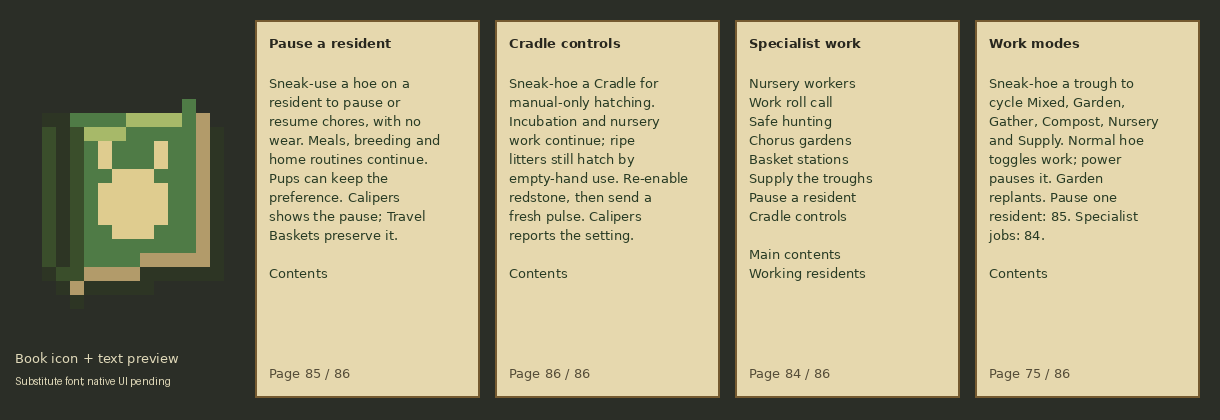
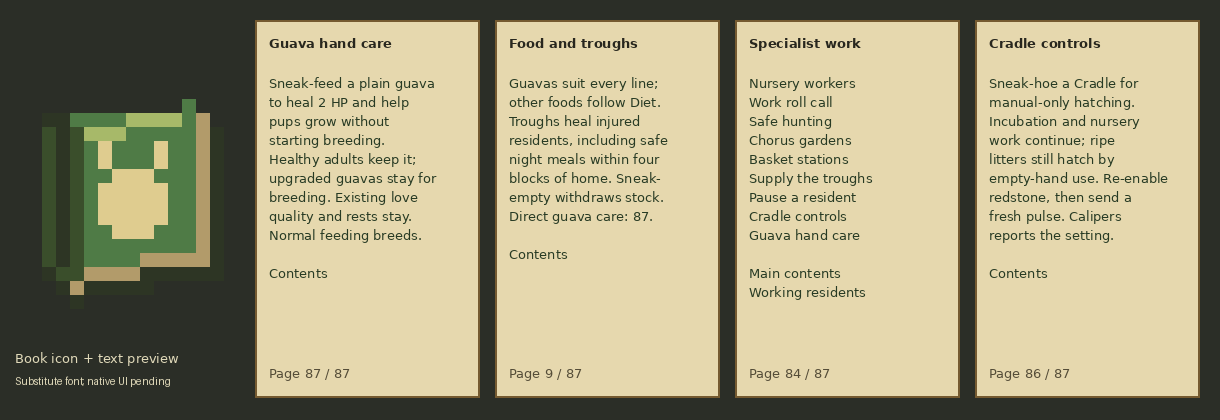
Add deliberate plain-guava care without starting breeding

diff --git a/tools/gametest/java/com/bunnidogs/mod/entity/HandCareGameTest.java b/tools/gametest/java/com/bunnidogs/mod/entity/HandCareGameTest.java
@@ -1,0 +1,71 @@
+package com.bunnidogs.mod.entity;
+
+import java.util.function.Consumer;
+import com.bunnidogs.mod.genetics.Foraging;
+import com.bunnidogs.mod.genetics.Genome;
+import com.bunnidogs.mod.genetics.Stats;
+import com.bunnidogs.mod.registry.ModEntities;
+import com.bunnidogs.mod.registry.ModItems;
+import net.minecraft.core.component.DataComponents;
+import net.minecraft.gametest.framework.GameTestHelper;
+import net.minecraft.nbt.CompoundTag;
+import net.minecraft.network.chat.Component;
+import net.minecraft.util.ProblemReporter;
+import net.minecraft.world.InteractionHand;
+import net.minecraft.world.entity.EntitySpawnReason;
+import net.minecraft.world.item.ItemStack;
+import net.minecraft.world.item.Items;
+import net.minecraft.world.level.GameType;
+import net.minecraft.world.level.storage.TagValueOutput;
+import net.minecraft.world.phys.Vec3;
+import net.neoforged.neoforge.common.NeoForge;
+import net.neoforged.neoforge.event.entity.living.LivingHealEvent;
+
+/** Actual hands distinguish guava care from love, including paused workers and callback refills. */
+public final class HandCareGameTest {
+    private HandCareGameTest() {}
+    private static CompoundTag saved(Bunnidog dog) {
+        var out = TagValueOutput.createWithContext(ProblemReporter.DISCARDING,dog.level().registryAccess()); dog.saveWithoutId(out); return out.buildResult();
+    }
+    public static void run(GameTestHelper h) {
+        var level = h.getLevel(); var dog = h.spawnWithNoFreeWill(ModEntities.BUNNIDOG.get(),3.5F,2,3.5F);
+        var stats = Stats.of(5,6,7,8,9); dog.setGenome(Genome.DEFAULT); dog.setStats(stats); dog.setAge(1234); dog.setHealth(dog.getMaxHealth()-4);
+        dog.setParents(Genome.DEFAULT,Genome.DEFAULT); dog.applyEarTag(); var identity = dog.getUUID(); var tag = dog.earTag();
+        var player = h.makeMockServerPlayerInLevel(); player.gameMode.changeGameModeForPlayer(GameType.SURVIVAL); player.setShiftKeyDown(true);
+        player.setItemInHand(InteractionHand.MAIN_HAND,new ItemStack(Items.IRON_HOE)); player.interactOn(dog,InteractionHand.MAIN_HAND,Vec3.ZERO); player.setItemInHand(InteractionHand.MAIN_HAND,ItemStack.EMPTY);
+        dog.ateForage(0); dog.finishedGardening(); int foodRest = dog.forageWait(), workRest = dog.gardeningWait();
+        var guavas = new ItemStack(ModItems.GUAVA.get(),3); guavas.set(DataComponents.CUSTOM_NAME,Component.literal("Care guavas")); player.setItemInHand(InteractionHand.OFF_HAND,guavas);
+        float health = dog.getHealth(); player.interactOn(dog,InteractionHand.OFF_HAND,Vec3.ZERO);
+        h.assertTrue(guavas.getCount() == 2 && guavas.getHoverName().getString().equals("Care guavas") && dog.getHealth() == health+Foraging.HEAL
+                && dog.getAge() == 1234 && !dog.isInLove() && dog.workPaused() && dog.forageWait() == foodRest && dog.gardeningWait() == workRest,
+                "Sneak off-hand care must pay one exact plain guava, heal two and retain pause/breeding cooldown/recoveries");
+        dog.setAge(0); player.interactOn(dog,InteractionHand.OFF_HAND,Vec3.ZERO);
+        h.assertTrue(guavas.getCount() == 1 && dog.getHealth() == dog.getMaxHealth() && !dog.isInLove() && !saved(dog).contains("LoveTierTicks"),"Even a breed-ready adult must receive care without love or a quality memory");
+        player.interactOn(dog,InteractionHand.OFF_HAND,Vec3.ZERO);
+        h.assertTrue(guavas.getCount() == 1 && !dog.isInLove(),"Healthy adults keep a medical guava without falling through to breeding");
+        var golden = new ItemStack(ModItems.GOLDEN_GUAVA.get(),2); golden.set(DataComponents.CUSTOM_NAME,Component.literal("Keep for breeding")); player.setItemInHand(InteractionHand.OFF_HAND,golden); dog.setHealth(dog.getMaxHealth()-4);
+        health = dog.getHealth(); player.interactOn(dog,InteractionHand.OFF_HAND,Vec3.ZERO);
+        h.assertTrue(golden.getCount() == 2 && dog.getHealth() == health && !dog.isInLove(),"Sneak care keeps upgraded guavas without healing or breeding");
+        dog.setAge(-1000); var pupFood = new ItemStack(ModItems.GUAVA.get(),2); player.setItemInHand(InteractionHand.OFF_HAND,pupFood); player.interactOn(dog,InteractionHand.OFF_HAND,Vec3.ZERO);
+        h.assertTrue(pupFood.getCount() == 1 && dog.getHealth() == health+Foraging.HEAL && dog.getAge() > -1000 && dog.isBaby() && !dog.isInLove(),"One plain medical guava heals and grows a pup through the existing hand-food rule");
+        dog.setAge(0); dog.setHealth(dog.getMaxHealth()-4); player.gameMode.changeGameModeForPlayer(GameType.CREATIVE); player.setItemInHand(InteractionHand.OFF_HAND,guavas);
+        health = dog.getHealth(); player.interactOn(dog,InteractionHand.OFF_HAND,Vec3.ZERO);
+        h.assertTrue(guavas.getCount() == 1 && player.getOffhandItem() == guavas && dog.getHealth() == health+Foraging.HEAL && !dog.isInLove(),"Creative off-hand care changes the real animal while preserving the actual guava");
+        player.setShiftKeyDown(false); player.setItemInHand(InteractionHand.OFF_HAND,golden); player.interactOn(dog,InteractionHand.OFF_HAND,Vec3.ZERO);
+        h.assertTrue(dog.isInLove() && saved(dog).getIntOr("LoveTier",-1) == 1,"Normal upgraded-guava feeding still starts breeding with its original tier");
+        int love = dog.getInLoveTime(), memory = saved(dog).getIntOr("LoveTierTicks",0); dog.setHealth(dog.getMaxHealth()-4); player.setShiftKeyDown(true); player.setItemInHand(InteractionHand.OFF_HAND,guavas);
+        player.interactOn(dog,InteractionHand.OFF_HAND,Vec3.ZERO);
+        h.assertTrue(dog.getInLoveTime() == love && saved(dog).getIntOr("LoveTier",-1) == 1 && saved(dog).getIntOr("LoveTierTicks",0) == memory,"Care preserves an already planned love tier and its exact remaining time");
+        player.gameMode.changeGameModeForPlayer(GameType.SURVIVAL); var last = new ItemStack(ModItems.GUAVA.get()); player.setItemInHand(InteractionHand.OFF_HAND,last); dog.setHealth(dog.getMaxHealth()-4);
+        boolean[] paidFirst = {false}; Consumer<LivingHealEvent> refill = event -> {
+            if (event.getEntity() == dog) { paidFirst[0] = last.isEmpty(); player.setItemInHand(InteractionHand.OFF_HAND,new ItemStack(Items.DIAMOND,3)); }
+        };
+        NeoForge.EVENT_BUS.addListener(refill);
+        try { player.interactOn(dog,InteractionHand.OFF_HAND,Vec3.ZERO); } finally { NeoForge.EVENT_BUS.unregister(refill); }
+        h.assertTrue(paidFirst[0] && last.isEmpty() && player.getOffhandItem().is(Items.DIAMOND) && player.getOffhandItem().getCount() == 3
+                && dog.genome().equals(Genome.DEFAULT) && dog.stats().equals(stats) && dog.getUUID().equals(identity) && dog.earTag().equals(tag)
+                && dog.forageWait() == foodRest && dog.gardeningWait() == workRest,"A native heal callback must see the paid food, retain replacement hand stock and leave biology/rests intact");
+        var apex = ModEntities.APEX.get().create(level,EntitySpawnReason.COMMAND); var refused = new ItemStack(ModItems.GUAVA.get()); player.setItemInHand(InteractionHand.OFF_HAND,refused); float bossHealth = apex.getHealth();
+        player.interactOn(apex,InteractionHand.OFF_HAND,Vec3.ZERO); h.assertTrue(refused.getCount() == 1 && apex.getHealth() == bossHealth && !apex.isInLove(),"The Apex still refuses all direct care food");
+    }
+}

diff --git a/art/gen_guide.py b/art/gen_guide.py
@@ -7,12 +7,12 @@ from gen_syringe import ROOT, RES, write
 PAGES = {
     2: ('Find a warren', 'Look for guava trees and entrance mounds. Follow lit tunnels to Nests. Settlements have one to five trees; cave, Nether and End lines have their own habitats. Maps: page 46. Scouts: page 47.'),
     3: ('Genes and stats', 'Each of seven genes has two copies. Dominance picks the visible trait; hidden copies still pass to pups. Bred stat points are separate. Use Calipers to read both.'),
-    4: ('Breed a seed', 'Feed a guava to each of two ready adults. They drop one seed holding both parents. Its tooltip shows the planned litter, quality and stat drift. The parents then rest.'),
+    4: ('Breed a seed', 'Feed a guava normally to each of two ready adults. They drop one seed holding both parents. Its tooltip shows the planned litter, quality and stat drift. The parents then rest.'),
     5: ('Hatch the litter', 'Plant a seed on farmland; dispensers plant into air above it. Bone meal speeds growth; hand or dispenser Starlit Dust ripens it. Break the ripe crop to hatch pups. Fortune improves quality. Leave room.'),
     6: ('Guava quality', 'Better guavas improve inherited stat gains. Feed both parents: their qualities are averaged. Golden: 1, Diamond: 2, Netherite: 4, Star: 7, Beacon: 12, Dragon Egg: 20.'),
     7: ('Keep a pedigree', 'Log animals with a Pedigree Book; Ear Tags label them. Sneak-use with a filled basket in the other hand to log its animal. Normal use opens records. Filter contents by traits/tags or senses>=20; hover the field for syntax.'),
     8: ('Nests and travel', 'Adults claim reachable Nests and return at night. Lead one to a free Nest and use it to rehome. Empty-hand Nest use inspects it. Use a compass on a Nest or resident to mark home; the place stays marked if removed.'),
-    9: ('Food and troughs', 'Guavas suit every line; other foods follow Diet. Fill a trough for healing. Injured adults can eat near their Nest at night; keep food and a safe route within four blocks of home. Sneak-empty withdraws stock.'),
+    9: ('Food and troughs', 'Guavas suit every line; other foods follow Diet. Troughs heal injured residents, including safe night meals within four blocks of home. Sneak-empty withdraws stock. Direct guava care: 87.'),
     10: ('Life at home', 'Healthy adults visit nearby bells at noon. Ring one to call a daytime visit. Keep it within 12 blocks of home, with walking space. Injury, threats, leads, rides and night interrupt.'),
     11: ('Gentle sampling', 'Use a Sampling Syringe on an animal at half health or better. It yields one Tissue Sample without harm; recovery takes five minutes. Sneak-use Calipers for care readiness and timers.'),
     12: ('Wool and whiskers', 'Shear a healthy woolly adult for two wool in coat colors. Brush adults at Senses +10 for one whisker. Each needs ten minutes of recovery. Tools wear once; pups yield neither.'),
@@ -85,8 +85,9 @@ PAGES = {
     83: ('Supply the troughs', 'Supply mode: Senses +20 adults move one ordinary surplus food to a nearby non-Supply trough below eight food, keeping eight at source. Keep both unpowered with dry paths. One job shares the one-minute work rest.'),
     85: ('Pause a resident', 'Sneak-use a hoe on a resident to pause or resume chores, with no wear. Meals, breeding and home routines continue. Pups can keep the preference. Calipers shows the pause; Travel Baskets preserve it.'),
     86: ('Cradle controls', 'Sneak-hoe a Cradle for manual-only hatching. Incubation and nursery work continue; ripe litters still hatch by empty-hand use. Re-enable redstone, then send a fresh pulse. Calipers reports the setting.'),
+    87: ('Guava hand care', 'Sneak-feed a plain guava to heal 2 HP and help pups grow without starting breeding. Healthy adults keep it; upgraded guavas stay for breeding. Existing love quality and rests stay. Normal feeding breeds.'),
 }
-PAGE_COUNT = 86
+PAGE_COUNT = 87
 MAIN_INDEX = {2:'Warrens & scouts',4:'Breeding & seeds',8:'Homes & food',11:'Care & traits',15:'Lab & splicing',
               17:'Registry & shows',19:'Material drops',20:'Apex of the Line'}
 MORE_INDEX = {24:'Guava juice',25:'Gardens & stores',27:'Boss forecast',28:'Living harvests',29:'Terrain & fishing',
@@ -95,7 +96,7 @@ NEW_INDEX = {41:'Nursery & compost',44:'Treat a litter',45:'Nest guards',46:'War
 
 HABITAT_INDEX = {57:'Cactus gardens',58:'Regional farms',59:'Guava orchards',60:'Mushroom beds',61:'Fruit meals',62:'Sapling stations',63:'Underground farms',64:'Safe seedbeds',65:'Snow-coat care'}
 WORK_INDEX = {67:'Loose food meals',68:'Trough gathering',69:'Melon beds',71:'Orchard pickers',72:'Habitat meals',73:'Nest signals',75:'Work modes',76:'Restore a garden',84:'Specialist work'}
-SPECIALIST_INDEX = {77:'Nursery workers',79:'Work roll call',80:'Safe hunting',81:'Chorus gardens',82:'Basket stations',83:'Supply the troughs',85:'Pause a resident',86:'Cradle controls'}
+SPECIALIST_INDEX = {77:'Nursery workers',79:'Work roll call',80:'Safe hunting',81:'Chorus gardens',82:'Basket stations',83:'Supply the troughs',85:'Pause a resident',86:'Cradle controls',87:'Guava hand care'}
 
 def pantry_guide_pool():
     return {'rolls':1,'conditions':[{'condition':'minecraft:random_chance','chance':.35}],
@@ -142,7 +143,7 @@ def main():
         bold = ImageFont.truetype('DejaVuSans-Bold.ttf',13)
     except OSError:
         font = bold = ImageFont.load_default()
-    for x,page in [(255,85),(495,86),(735,84),(975,75)]:
+    for x,page in [(255,87),(495,9),(735,84),(975,86)]:
         d.rectangle((x,20,x+224,397),fill=(230,216,174),outline=(117,90,48),width=2)
         title = 'Bunnidogs Guide' if page == 1 else 'More chapters' if page == 40 else 'New chapters' if page == 50 else 'Habitat chapters' if page == 56 else 'Working residents' if page == 66 else 'Specialist work' if page == 84 else PAGES[page][0]
         d.text((x+14,35),title,font=bold,fill=(40,39,30))

diff --git a/tools/gametest/java/com/bunnidogs/mod/entity/GuavaGameTest.java b/tools/gametest/java/com/bunnidogs/mod/entity/GuavaGameTest.java
@@ -55,7 +55,7 @@ public final class GuavaGameTest extends GameTestInstance {
     @SubscribeEvent
     public static void registerTests(RegisterGameTestsEvent event) {
         var environment = event.registerEnvironment(id("guava_integration"), new TestEnvironmentDefinition.AllOf());
-        for (String name : new String[]{"boats", "signs", "transport", "rehoming", "wayfinding", "sampling", "adaptations", "fleece", "splicing", "registry", "table_planning", "table_automation", "show", "grooming", "cold_care", "settlement", "apex", "fixtures", "regional_farms", "orchard", "orchard_picking", "sapling_station", "gardening", "cactus_gardening", "mushroom_gardening", "melon_gardening", "fruit_foraging", "regional_meals", "loose_food", "food_gathering", "pantry", "fishing", "hunt_safety", "chorus_care", "refuge", "guarding", "scouting", "resident_finder", "storm_shelter", "recovery_rest", "trough_automation", "bell_calls", "trough_filters", "care_dispensers", "basket", "basket_dispenser", "basket_callbacks", "cultivation", "nest_markers", "nest_signals", "night_meals", "nursery", "seed_recovery", "cradle_storage", "cradle_hatching", "cradle_spawn_refusal", "crop_harvest", "composting", "work_modes", "work_pause", "cradle_controls", "work_census", "trough_supply", "supply_callbacks", "garden_restoration", "nursery_workers", "nursery_treatment"}) {
+        for (String name : new String[]{"boats", "signs", "transport", "rehoming", "wayfinding", "sampling", "adaptations", "fleece", "splicing", "registry", "table_planning", "table_automation", "show", "grooming", "cold_care", "settlement", "apex", "fixtures", "regional_farms", "orchard", "orchard_picking", "sapling_station", "gardening", "cactus_gardening", "mushroom_gardening", "melon_gardening", "fruit_foraging", "regional_meals", "loose_food", "food_gathering", "pantry", "fishing", "hunt_safety", "chorus_care", "refuge", "guarding", "scouting", "resident_finder", "storm_shelter", "recovery_rest", "trough_automation", "bell_calls", "trough_filters", "care_dispensers", "basket", "basket_dispenser", "basket_callbacks", "cultivation", "nest_markers", "nest_signals", "night_meals", "nursery", "seed_recovery", "cradle_storage", "cradle_hatching", "cradle_spawn_refusal", "crop_harvest", "composting", "work_modes", "work_pause", "hand_care", "cradle_controls", "work_census", "trough_supply", "supply_callbacks", "garden_restoration", "nursery_workers", "nursery_treatment"}) {
             event.registerTest(id(name), new GuavaGameTest(name, new TestData<>(environment, id("empty"), name.equals("nest_signals") ? 180 : 100, 0, true)));
         }
     }
@@ -102,6 +102,7 @@ public final class GuavaGameTest extends GameTestInstance {
             case "composting" -> { CompostingGameTest.run(h); return; }
             case "work_modes" -> ResidentWorkGameTest.modes(h);
             case "work_pause" -> { WorkPauseGameTest.run(h); return; }
+            case "hand_care" -> HandCareGameTest.run(h);
             case "cradle_controls" -> { CradleControlsGameTest.run(h); return; }
             case "work_census" -> { WorkCensusGameTest.run(h); return; }
             case "trough_supply" -> { SupplyGameTest.run(h); return; }

diff --git a/src/main/java/com/bunnidogs/mod/entity/Bunnidog.java b/src/main/java/com/bunnidogs/mod/entity/Bunnidog.java
@@ -580,14 +580,24 @@ public class Bunnidog extends Animal implements net.neoforged.neoforge.common.IS
             return InteractionResult.SUCCESS;
         }
         if (held.is(Items.BRUSH)) return BunnidogGrooming.use(this, player, held, hand);
-        if (!isBunnidogFood(held) && this.canEat(held)) {
+        boolean guavaCare = player.isShiftKeyDown() && held.getItem() instanceof GuavaItem;
+        if (guavaCare) {
+            if (!this.acceptsCare() || !this.isAlive() || !this.canEat(held)) return InteractionResult.PASS;
+            if (!held.is(ModItems.GUAVA.get())) {
+                if (!this.level().isClientSide()) player.sendOverlayMessage(Component.translatable("message.bunnidogs.feeding.plain_care"));
+                return InteractionResult.SUCCESS;
+            }
+        }
+        if (guavaCare || !isBunnidogFood(held) && this.canEat(held)) {
             if (!Foraging.handFood(true, false, this.getHealth() < this.getMaxHealth(), this.canAgeUp())) {
-                return InteractionResult.PASS;
+                if (guavaCare && !this.level().isClientSide()) player.sendOverlayMessage(Component.translatable("message.bunnidogs.feeding.no_care"));
+                return guavaCare ? InteractionResult.SUCCESS : InteractionResult.PASS;
             }
             if (!this.level().isClientSide()) {
+                // Reserve the real hand's food before native healing hooks can replace that hand.
+                held.consume(1, player);
                 this.heal(Foraging.HEAL);
                 if (this.canAgeUp()) this.ageUp(getSpeedUpSecondsWhenFeeding(-this.getAge()), true);
-                held.consume(1, player);
                 this.playEatingSound();
             }
             return InteractionResult.SUCCESS;

diff --git a/src/main/java/com/bunnidogs/mod/item/FieldGuideItem.java b/src/main/java/com/bunnidogs/mod/item/FieldGuideItem.java
@@ -12,7 +12,7 @@ import net.minecraft.world.item.component.WrittenBookContent;
 
 /** Native book UI/packets, translated pages and local page links; no custom screen or payload. */
 public final class FieldGuideItem extends WrittenBookItem {
-    public static final int PAGE_COUNT = 86;
+    public static final int PAGE_COUNT = 87;
     private static final int MORE_CONTENTS = 40;
     private static final int NEW_CONTENTS = 50;
     private static final int HABITAT_CONTENTS = 56;
@@ -28,7 +28,7 @@ public final class FieldGuideItem extends WrittenBookItem {
                 .append("\n").append(link("guide.bunnidogs.habitat_contents",HABITAT_CONTENTS))));
         for (int page = 2; page <= PAGE_COUNT; page++) {
             if (page == SPECIALIST_CONTENTS) {
-                pages.add(Filterable.passThrough(contents("guide.bunnidogs.specialist_contents",new int[]{77,79,80,81,82,83,85,86},
+                pages.add(Filterable.passThrough(contents("guide.bunnidogs.specialist_contents",new int[]{77,79,80,81,82,83,85,86,87},
                         "guide.bunnidogs.main_contents",1).append("\n").append(link("guide.bunnidogs.work_contents",WORK_CONTENTS))));
                 continue;
             }

diff --git a/src/main/java/com/bunnidogs/mod/item/GuavaItem.java b/src/main/java/com/bunnidogs/mod/item/GuavaItem.java
@@ -77,6 +77,9 @@ public class GuavaItem extends Item {
         lines.accept(Component.literal("Seed quality " + tier.qualityText()).withStyle(ChatFormatting.GRAY));
         lines.accept(Component.literal("Averaged over the guavas of both parents").withStyle(ChatFormatting.DARK_GRAY));
         lines.accept(Component.translatable("tooltip.bunnidogs.guava.table").withStyle(ChatFormatting.DARK_GRAY));
-        if (tier == GuavaTier.PLAIN) lines.accept(Component.translatable("tooltip.bunnidogs.guava.plant").withStyle(ChatFormatting.DARK_GRAY));
+        if (tier == GuavaTier.PLAIN) {
+            lines.accept(Component.translatable("tooltip.bunnidogs.guava.plant").withStyle(ChatFormatting.DARK_GRAY));
+            lines.accept(Component.translatable("tooltip.bunnidogs.guava.care").withStyle(ChatFormatting.DARK_GRAY));
+        }
     }
 }

diff --git a/START_HERE.md b/START_HERE.md
@@ -22,6 +22,14 @@ checkpoints/compaction and reserve only the capacity needed to deliver safely.
 
 ## Latest gameplay work — 2026-10-19
 
+- **D11, plain-guava hand care:** sneak-feed plain guavas for ordinary two-HP
+  healing/pup growth without starting breeding. Healthy adults and upgraded
+  guavas keep food; existing love quality/time, rests and work preference stay.
+  Normal feeding still breeds. Manual food pays from the actual hand before
+  healing callbacks, preserving callback-refilled stock. Java 25 build/all 69
+  native cases pass; 87-page/six-index/fifty-five-link guide preview inspected.
+  See `docs/FORAGING_SPECS.md` D11.
+
 - **L35/N10, keeper controls:** sneak-hoe an individual to pause/resume chores
   while retaining meals, home and care; the optional preference survives saves
   and Travel Baskets. Sneak-hoe a Cradle for manual-only hatching. Incubation,
@@ -346,7 +354,7 @@ storm shelter, fishing, terrain traits, local supplies, living dust and fitted
 farms are also complete. Their rules/evidence remain in the specifications
 listed below; do not redo them.
 
-The native Field Guide has 86 translated pages and fifty-four chapter links
+The native Field Guide has 87 translated pages and fifty-five chapter links
 across six linked contents pages.
 `art/gen_guide.py` owns text/icon/preview; `art/gen_pantries.py` owns eight
 lineage food tables and shares the guide pool. See `docs/FIELD_GUIDE.md`.
@@ -363,7 +371,7 @@ lineage food tables and shares the guide pool. See `docs/FIELD_GUIDE.md`.
 | Registry and shows | Distinct stable bred lines, linked snapshots, balanced-stat bronze/silver/gold judging, per-animal awards, ribbons and Champion Line. `docs/REGISTRY_SPECS.md`, `docs/SHOW_SPECS.md` |
 | Care | Live samples, fleece palettes, whiskers/dust/moss/cold-climate frost, dispenser care, saved recoveries and sneak-Calipers home/food/care/work status. `docs/CARE_SPECS.md` C1–C10 |
 | Adaptations | Expressed fire/cold/fall/Poison/cactus/Levitation benefits, slate armor, heavy-build knockback resistance, self-lit glow, terrain movement and snow footing. `docs/CARE_SPECS.md` A1–A5 |
-| Outdoor food | Home-bounded crop/grass/hay/fruit and sustainable habitat meals, old ordinary loose food, bounded dry hunting/shore fishing, spent-chorus care, reservations and callback-safe commits. `docs/FORAGING_SPECS.md` D6–D10 |
+| Outdoor food | Home-bounded crop/grass/hay/fruit and sustainable habitat meals, old ordinary loose food, bounded dry hunting/shore fishing, spent-chorus care, reservations and callback-safe commits. `docs/FORAGING_SPECS.md` D6–D11 |
 | Homes/travel | Claimable Nests and comparator signals, day tether/night return, floor Nests, native leads/rides and led-adult reassignment. Travel Baskets preserve whole animals by hand/native dispenser; compasses mark places and resident homes. `docs/HOME_SPECS.md` H1–H10 |
 | Settlement life | Trough stock/automation/filters/power, Diet healing and short night meals; bell visits, regional and meadow-melon farms, local supplies, refuge/storm/rest/guards and read-only roll calls. Selected harvest/cultivation/compost/gather/garden-restoration/nursery/supply jobs share exact stock, safe routes and saved work rest. `docs/SETTLEMENT_LIFE.md` L1–L35, `docs/RESIDENT_WORK.md` |
 | Warrens | Fitted dens/mouths/tunnels/cellars, landmark rooms, grand-tree hall/loop/lower commons, cave/Nether/End entrances and saved labels. `docs/WARREN_PLAN.md` U1–U8 |

diff --git a/docs/API_NOTES.md b/docs/API_NOTES.md
@@ -28,6 +28,7 @@ Status words: **COMPILED** = the user's compile accepted it (names and types are
 ### Lookup table (need -> what works in this project -> status -> exact place)
 | Need | What works | Status | Where it was verified |
 |---|---|---|---|
+| Plain-guava hand care D11 | Crouched ordinary GuavaItem care is handled before native Animal breeding. Reuse Foraging.handFood and native ageUp/getSpeedUpSecondsWhenFeeding; pay actual hand consume(1,player) before heal callbacks for both manual-food paths. Native Animal.isInLove()/getInLoveTime() are public. Keep existing custom LoveTier/LoveTierTicks untouched. | Build/all 69 cases; actual off-hand/creative care, ordinary breeding, preserved plans/rests and a native heal callback refilling the hand | Bunnidog, GuavaItem, HandCareGameTest |
 | Keeper controls L35/N10 | Optional WorkPaused on the animal gates its shared gardening status, including active callback rechecks. Optional ManualHatchOnly on the Cradle gates only its scheduled redstone tick; direct hatch() still uses ordinary pad checks. Extend the crouched RightClickBlock allowance only for hoes on Cradles, preserving canceled/UseBlock.FALSE and build permission. | Build/all 68 cases; actual off-hand/creative/Adventure/protection, native saves/basket, real meals and queued/fresh pulses | Bunnidog, Gardening, TroughInteraction, NurseryCradleBlock/Entity, WorkPauseGameTest, CradleControlsGameTest |
 | Resident supply L34 | One native Transaction.openRoot pairs the two existing trough automation journals. Stock mutations are staged before root commit notifications, so removal drops the actual post-transfer contents. Work captures both BE identities, exact food and home; recheck after the mob-griefing event, with no carried-item persistence. | Build/all 66 native cases; paired/destination-refused rollback, real work and both-container removal conservation | Supplying, TroughSupply, SupplyGoal, SupplyGameTest |
 | Compost reservation rechecks L14 | takeSurplus emits real fill notifications; mode or worker traits can change before native insertItem. continuing(true) revalidates using the post-reservation reserve. Refund cancelled jobs without rest; real chance failures still spend and rest. | Existing compost scenario extended with native mode/Bloom callbacks; all 66 pass | GardenGoal, CompostingGameTest |

diff --git a/docs/FORAGING_SPECS.md b/docs/FORAGING_SPECS.md
@@ -159,3 +159,31 @@ Bloom +19/+20, Diet, work mode and power refusals, a protection callback that
 removes the bonus, exact one-fruit/age-zero/shared-rest work, preserved branches
 and a direct two-HP meal without loose food. The End/basket guide preview is
 inspected; natural native branch growth and client behavior remain playtest review.
+
+## D11: deliberate hand care with a plain guava
+
+Sneak-feed a plain guava to an ordinary living bunnidog for direct care instead
+of breeding. One guava heals the normal two HP and grows a pup by the existing
+hand-food amount. Every Diet accepts this explicit guava care, including plain
+lines that otherwise have few hand-fed healing foods. An adult needing no
+healing keeps the guava and enters no love mode. Higher-tier guavas are kept
+with an explanation; use normal feeding to spend them on breeding as before.
+
+Manual care uses the existing hand-food rules, including creative preservation
+and no new hand-feeding cooldown. It neither resets nor reduces existing meal,
+work or care rests, breeding cooldown or an already remembered love tier/time.
+Paused workers may still be cared for. Ordinary non-breeding hand foods keep
+their Diet and need/growth rules. Both manual care paths now consume the actual
+hand's input before native healing callbacks, preserving any replacement stock
+that a callback puts in that hand. Genome, stats, ancestry and tags remain
+unchanged; the Apex still rejects food. No new item, field or packet is added.
+
+Java 25 build/all 69 native scenarios pass. The new native hand-care case uses
+a named actual off-hand stack, paused plain-Diet adult with breeding cooldown,
+exact two-HP healing, preserved food/work rest, ready adult without love/memory,
+healthy and upgraded refusal, real pup growth, creative hand preservation,
+normal Golden-guava breeding and care retaining its exact love tier/time. A
+real native heal callback replaces the hand with diamonds after seeing the
+reserved final guava; new stock and biology remain intact. The Apex still
+refuses. The new care/food/Specialist/Cradle guide preview is inspected; client
+gestures and long-term husbandry remain gameplay review.

diff --git a/docs/FIELD_GUIDE.md b/docs/FIELD_GUIDE.md
@@ -58,8 +58,8 @@ containers are not refilled and player inventories are not edited. See
 
 ## Presentation and saves
 
-Eighty-six pages use the ordinary written-book screen. Six linked contents pages
-offer fifty-four clickable chapter links. Each chapter links back to its index. Local page changes
+Eighty-seven pages use the ordinary written-book screen. Six linked contents pages
+offer fifty-five clickable chapter links. Each chapter links back to its index. Local page changes
 are the only click action. All text is translatable through en_us.json. The
 book stacks to one and appears beside the Calipers in Tools & Utilities.
 
@@ -76,9 +76,9 @@ resource-pack fonts may differ. The source preview uses a substitute font.
 
 ## Evidence
 
-The actual Java 25 build and current sixty-eight native server cases pass,
-including loading the book/recipe/loot resources. The expanded 86-page
-resident-pause/Cradle-control/Specialist/mode preview is inspected with a substitute font; all
+The actual Java 25 build and current sixty-nine native server cases pass,
+including loading the book/recipe/loot resources. The expanded 87-page
+guava-care/food/Specialist/Cradle-control preview is inspected with a substitute font; all
 three indices were also inspected for P4. Earlier
 pages were shortened using the conservative native text-area estimate.
 Native WrittenBookItem, ServerPlayer, ClientPacketListener and BookViewScreen
@@ -273,3 +273,8 @@ the Specialist work index and return there; existing page numbers remain.
 Work modes points to 85; Hatch safely points to 86. The eight-entry Specialist
 index keeps its two footer links. The guide has 86 pages/six indices/fifty-four
 chapter links; both new chapters, Specialist and modes are previewed.
+
+D11 appends **Guava hand care** (87), a ninth Specialist entry returning to 84.
+Food and troughs points to it; Breed a seed specifies normal feeding. Earlier
+numbers remain stable. There are 87 pages/six indices/fifty-five chapter links;
+care/food/Specialist/Cradle-control previews are inspected.

diff --git a/README.md b/README.md
@@ -4,7 +4,7 @@ A NeoForge mod for Minecraft 26.2: a baby-faced creature with rabbit ears and a
 dog's body, plus breeding, genetics, guavas, warrens, homes and pedigree tools.
 Requires JDK 25. Client and server must both use the updated mod (network 7). The checked-in Gradle wrapper selects the project Gradle version.
 
-Craft a vanilla book with any guava for the **86-page Field Guide**, with six
+Craft a vanilla book with any guava for the **87-page Field Guide**, with six
 linked contents pages covering its chapters. Sneak-use
 Calipers for care/work readiness, use a hoe on a Feeding Trough to enable
 resident gardening, and explore food stores for supplies suited to each lineage.
@@ -46,6 +46,7 @@ Ring a nearby bell to call healthy residents for a daytime visit.
 Woolly adults yield wool in their expressed coat's palette; Calipers names it.
 Dispensers use Brushes/Sampling Syringes with the same animal recovery as hand use.
 Travel Baskets move individual animals while preserving identity and care state.
+Sneak-feed a plain guava for healing/pup growth without breeding; normal feeding breeds.
 Bloom +10 residents cultivate matching unripe crops beside enabled troughs;
 ordinary foragers also gather sweet berries while keeping the bush.
 Use a compass on a Nest or resident to mark home; inspect a Nest empty-handed.

diff --git a/docs/FEATURES.md b/docs/FEATURES.md
@@ -1,7 +1,7 @@
 # Bunnidogs: how to use each feature in game
 
 **Field Guide (P1):** combine a vanilla book with any guava. Use the book to
-open 86 pages from first warren to Apex. Six linked contents pages offer fifty-four
+open 87 pages from first warren to Apex. Six linked contents pages offer fifty-five
 chapter links; Habitat chapters collect regional gardens.
 It can also appear in unopened warren pantry barrels (35% chance). Native book
 pages, rather than a separate custom screen, explain the progression in-game.
@@ -633,3 +633,8 @@ continue; the saved preference travels in baskets. Sneak-hoe a Cradle to make
 hatching manual only. Its incubation, nursery tending and stock automation
 continue; ripe empty-hand hatching stays available. Re-enable redstone and send
 a fresh pulse to restore automatic hatching. Tools spend no durability.
+
+**Guava hand care (D11):** sneak-feed a plain guava to heal 2 HP and help pups
+grow without breeding. Healthy adults and upgraded guavas keep food. Existing
+love quality/time and care/work/food rests are preserved. Normal feeding still
+starts breeding. The plain guava tooltip explains the gesture.
